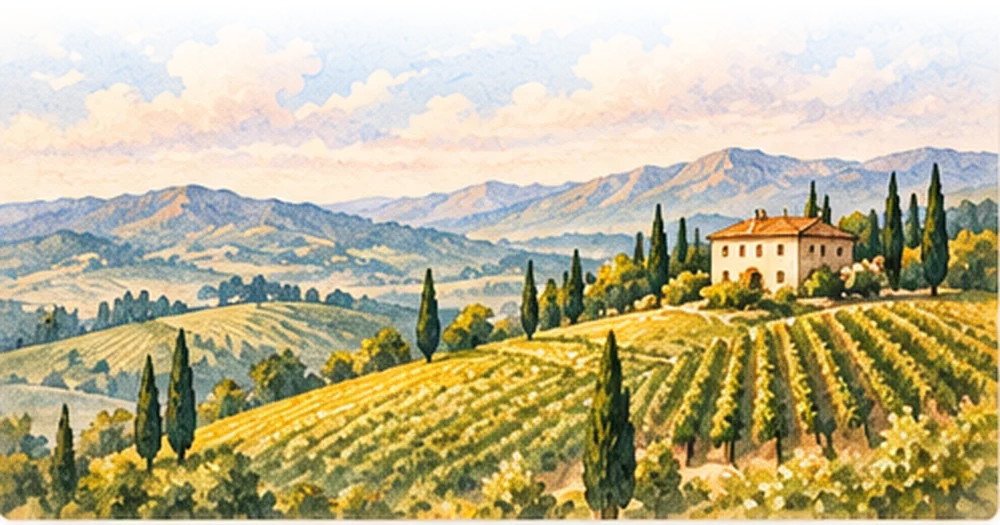
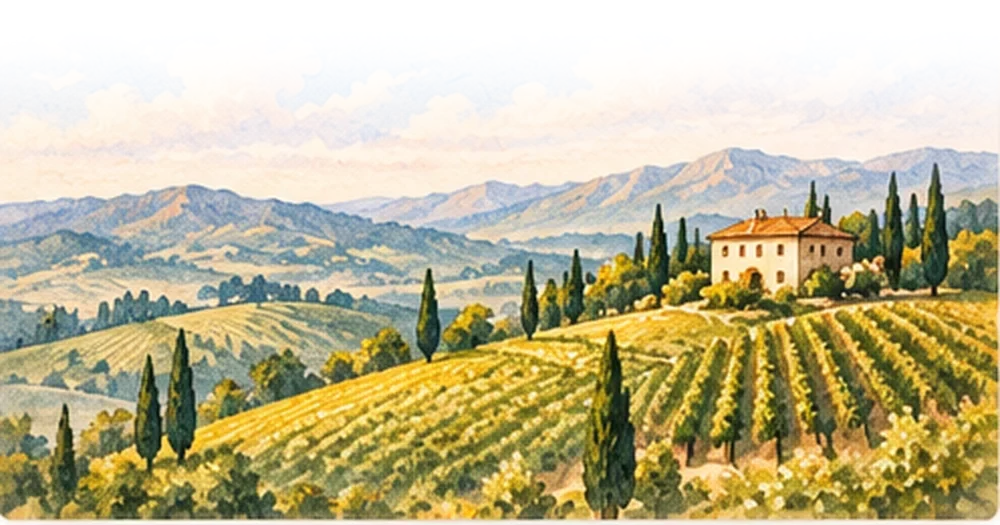
Cards: long soft fade where Garden Arch, Postmark, French Riviera and Regatta's paintings meet the paper; Wildflower site: the meadow closes the page (owner)
Claude-Session: https://claude.ai/code/session_01VSxtNjXHZv2mNuuYnRFjyN

diff --git a/src/components/site-scene.tsx b/src/components/site-scene.tsx
@@ -48,9 +48,11 @@ export function SiteScene({ where }: { where: "band" | "strip" | "surround" | "f
   const design = useSiteDesign();
   const id = useId().replace(/:/g, "");
   const scene = resolveDesign(design).scene;
-  if (sceneById(scene).place !== where) return null;
+  if (sceneById(scene).place !== where && !(where === "foot" && SURROUND_FEET[scene])) return null;
 
   if ((where === "band" || where === "foot") && PAINTED_BANDS[scene]) return PAINTED_BANDS[scene];
+  // A frame scene that also closes the page (Wildflower's meadow under its side flowers).
+  if (where === "foot" && SURROUND_FEET[scene]) return SURROUND_FEET[scene];
   if (where === "band" || where === "foot") {
     return (
       <svg
@@ -858,6 +860,11 @@ const foot = (file: string, w: number, h: number, x: string, sky: string): React
   </div>
 );
 
+/** Frame scenes whose painting also runs along the foot of the page. */
+const SURROUND_FEET: Partial<Record<SceneId, ReactNode>> = {
+  "painted-wildflowers": foot("wildflower-meadow", 1000, 440, "50%", "transparent"),
+};
+
 /**
  * The colour of each painting's top edge (its sky, sampled from the file):
  * the page deepens to it, so the painting reads as the bottom of one sky.
@@ -934,8 +941,6 @@ const SURROUNDS: Draw = {
       <img src={`${BATCH_A}/wildflower-left.webp`} alt="" width={300} height={880} className={`${painted} absolute left-0 top-0 h-[calc(100%-clamp(90px,14vw,200px))] w-[17vw] max-w-[230px] object-cover object-left-top [mask-image:linear-gradient(to_right,#000_55%,transparent)] sm:w-[19vw]`} />
       {/* eslint-disable-next-line @next/next/no-img-element -- decorative watercolour */}
       <img src={`${BATCH_A}/wildflower-right.webp`} alt="" width={300} height={880} className={`${painted} absolute right-0 top-0 h-[calc(100%-clamp(90px,14vw,200px))] w-[17vw] max-w-[230px] object-cover object-right-top [mask-image:linear-gradient(to_left,#000_55%,transparent)] sm:w-[19vw]`} />
-      {/* eslint-disable-next-line @next/next/no-img-element -- decorative watercolour */}
-      <img src={`${BATCH_A}/wildflower-meadow.webp`} alt="" width={1000} height={440} className={`${painted} absolute inset-x-0 bottom-0 h-[clamp(170px,30vw,440px)] w-full object-cover object-top`} />
     </>
   ),
   // Gilded (suites wave 2): the card's line-drawn flowers, running off the

diff --git a/src/app/w/[slug]/wedding-hero.tsx b/src/app/w/[slug]/wedding-hero.tsx
@@ -621,7 +621,7 @@ function StationeryHero({ wedding }: { wedding: PublicWedding }) {
   return (
     <header
       className={`site-hero-plain relative overflow-hidden px-5 sm:px-8 ${
-        sides ? "pb-[clamp(170px,27vw,400px)] pt-14 sm:pt-20" : scene === "peonies" ? "pb-20 pt-24 sm:pb-36 sm:pt-28" : "pb-10 pt-12 sm:pb-12 sm:pt-16"
+        sides ? "pb-16 pt-14 sm:pb-20 sm:pt-20" : scene === "peonies" ? "pb-20 pt-24 sm:pb-36 sm:pt-28" : "pb-10 pt-12 sm:pb-12 sm:pt-16"
       }`}
     >
       <SiteScene where="surround" />
